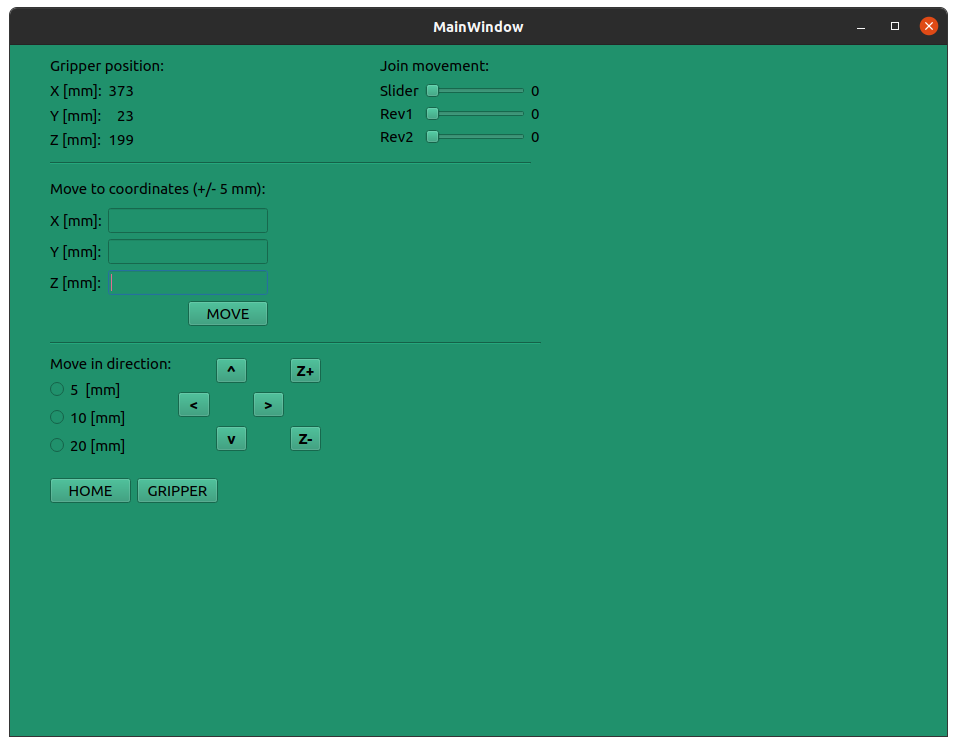
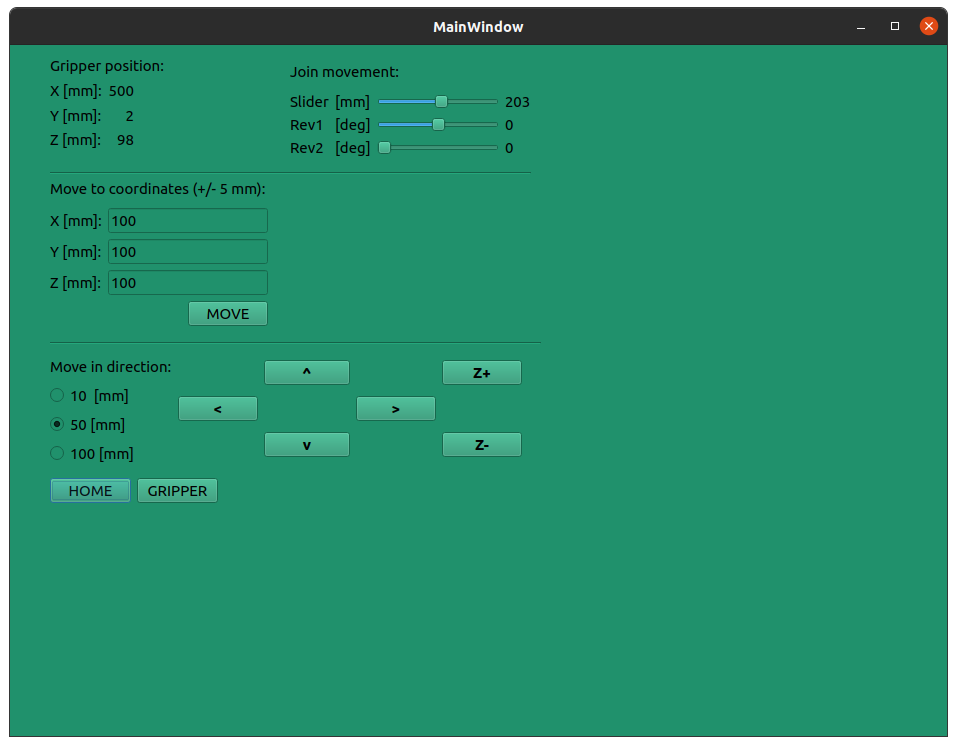
Add GUI functionalities for moving manipulator in XYZ axis with predfined distance from radion buttons. Add home button action.

diff --git a/scara_moveit/src/GUI_main.py b/scara_moveit/src/GUI_main.py
@@ -16,7 +16,6 @@ class MainWindow(QtWidgets.QMainWindow):
 		super().__init__()
 		loadUi('QtDesigner_GUI.ui', self)
 
-
 		# Moveit commander setup
 		self.robot = moveit_commander.RobotCommander()
 		self.scene = moveit_commander.PlanningSceneInterface()
@@ -24,44 +23,75 @@ class MainWindow(QtWidgets.QMainWindow):
 
 		# Buttons
 		self.move_button.clicked.connect(self.move_to_XYZ)
+		self.home_button.clicked.connect(self.home_action)
+		# self.gripper_button.clicked.connect(self.gripper_action)
+		
 
+		self.xplus_button.clicked.connect(lambda: self.move_to_direction('x'))
+		self.xminus_button.clicked.connect(lambda: self.move_to_direction('x', False))
+		self.yplus_button.clicked.connect(lambda: self.move_to_direction('y'))
+		self.yminus_button.clicked.connect(lambda: self.move_to_direction('y', False))
+		self.zplus_button.clicked.connect(lambda: self.move_to_direction('z'))
+		self.zminus_button.clicked.connect(lambda: self.move_to_direction('z', False))
+
+		# Radio Buttons
+		self.move_distance = 0.01
+		self.radio_button_1.toggled.connect(lambda:self.set_distance(self.radio_button_1))
+		self.radio_button_2.toggled.connect(lambda:self.set_distance(self.radio_button_2))
+		self.radio_button_3.toggled.connect(lambda:self.set_distance(self.radio_button_3))
+	
 		# Sliders
 		self.slider_pressed_flag = False
 
 		self.slider_slider.sliderPressed.connect(self.slider_pressed)
 		self.slider_slider.sliderReleased.connect(lambda: self.move_to_joint('slider', True))
-		
 		self.rev1_slider.sliderPressed.connect(self.slider_pressed)
 		self.rev1_slider.sliderReleased.connect(lambda: self.move_to_joint('rev1', True))
-		
 		self.rev2_slider.sliderPressed.connect(self.slider_pressed)
 		self.rev2_slider.sliderReleased.connect(lambda: self.move_to_joint('rev2', True))
 
 	def slider_pressed(self):
+		'''Update slider pressed flag.'''
+
 		self.slider_pressed_flag = True
 
+	def set_distance(self, radio_button):
+		'''After pressing radio button, distance to move is set value from button label (convert [mm] -> [m]).'''
 
-	def update_robot_state_labels(self):
+		if radio_button.isChecked():
+			button_value = int(radio_button.text().split()[0])
+			self.move_distance = button_value/1000
+
+	def update_XYZ_labels(self):
 		'''
-		Get current XYZ position of end-effector and joints position from Moveit Commander. 
-		Convert values from [m] to [mm] and from radians to degrees. 
+		Get current XYZ position of end-effector from Moveit Commander. 
+		Convert [m] -> [mm]. 
 		Display values in corresponding fields on GUI.
 		'''
 
 		xyz_position = self.group.get_current_pose().pose.position
-		joints_position = self.group.get_current_joint_values()
-
+	
 		x_position = round(xyz_position.x*1000)
 		y_position = round(xyz_position.y*1000)
 		z_position = round(xyz_position.z*1000)
 
-		slider_current = round(joints_position[0]*1000)
-		rev1_current = round(math.degrees(joints_position[1]))
-		rev2_current = round(math.degrees(joints_position[2]))
-
 		self.x_current_pos.setText(str(x_position))
 		self.y_current_pos.setText(str(y_position))
 		self.z_current_pos.setText(str(z_position))
+
+	def update_joints_position_labels(self):
+		'''
+		Get current joints position from Moveit Commander. 
+		Convert [m] -> [mm] and [rad] -> [deg]. 
+		Display values in corresponding fields on GUI. Update joints slider position.
+		In case when user grab a slider, labels values are updated from slider position.
+		'''
+
+		joints_position = self.group.get_current_joint_values()
+
+		slider_current = round(joints_position[0]*1000)
+		rev1_current = round(math.degrees(joints_position[1]))
+		rev2_current = round(math.degrees(joints_position[2]))
 
 		if self.slider_pressed_flag:
 			self.slider_current_val.setText(str(self.slider_slider.value()))
@@ -90,7 +120,6 @@ class MainWindow(QtWidgets.QMainWindow):
 		target_pose.position.y = int(self.Y_line_edit.text())/1000
 		target_pose.position.z = int(self.Z_line_edit.text())/1000
 
-
 		self.group.set_position_target([target_pose.position.x,  target_pose.position.y, target_pose.position.z], 'gripper')
 		self.group.set_goal_tolerance(0.005)
 		self.group.go()
@@ -100,25 +129,65 @@ class MainWindow(QtWidgets.QMainWindow):
 		Get joint positions from slider possition.
 		Send joint position to Moveit Commander in order to execute manipulator motion. 
 		'''
+
+		joints_position = self.group.get_current_joint_values()
+
 		if slider_used:
 			self.slider_pressed_flag = False
 
 		if joint == 'slider':
 			joint_pos_target = self.slider_slider.value()/1000
-			self.group.set_joint_value_target([joint_pos_target, 0, 0])
+			joints_position[0] = joint_pos_target
+			self.group.set_joint_value_target(joints_position)
+		
 		elif joint == 'rev1':
 			joint_pos_target  = math.radians(self.rev1_slider.value())
-			self.group.set_joint_value_target([0.2, joint_pos_target, 0])
+			joints_position[1] = joint_pos_target
+			self.group.set_joint_value_target(joints_position)
+		
 		elif joint == 'rev2':
 			joint_pos_target  = math.radians(self.rev2_slider.value())
-			self.group.set_joint_value_target([0.2, 0, joint_pos_target,])
-		
+			joints_position[2] = joint_pos_target
+			self.group.set_joint_value_target(joints_position)
 		
 		self.group.go()
 
+	def move_to_direction(self, axis, dir_positive = True):
+		'''Move end-effector to specific direction. Distance to move is based on user choice of radio buttons.'''
+
+		target_position = self.group.get_current_pose().pose.position
+
+		if axis == 'x':
+			if dir_positive:
+				target_position.x += self.move_distance
+			else:
+				target_position.x -= self.move_distance
+		elif axis == 'y':
+			if dir_positive:
+				target_position.y += self.move_distance
+			else:
+				target_position.y -= self.move_distance
+		elif axis == 'z':
+			if dir_positive:
+				target_position.z += self.move_distance
+			else:
+				target_position.z -= self.move_distance
+
+		self.group.set_position_target([target_position.x,  target_position.y, target_position.z], 'gripper')
+
+		self.group.set_goal_tolerance(0.005)
+		self.group.go()
 		
+	def home_action(self):
+		'''Move manipilator to predefined home position.'''
 
+		self.group.set_named_target("home")
+		self.group.go()
 
+	# def gripper_action(self):
+
+		#TO DO
+		
 
 if __name__ == '__main__':
 
@@ -131,7 +200,8 @@ if __name__ == '__main__':
 	widget.show()
 
 	timer = QtCore.QTimer()
-	timer.timeout.connect(widget.update_robot_state_labels)
+	timer.timeout.connect(widget.update_XYZ_labels)
+	timer.timeout.connect(widget.update_joints_position_labels)
 	timer.start(200) 
 
 	sys.exit(app.exec_())
